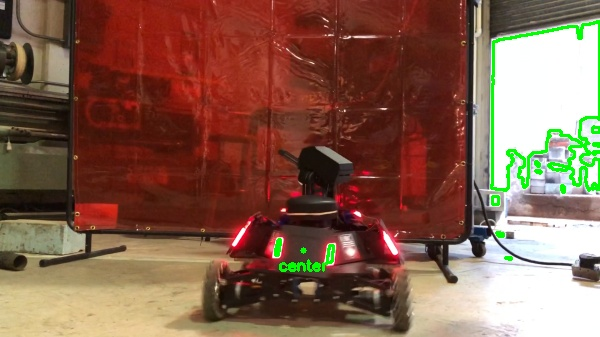
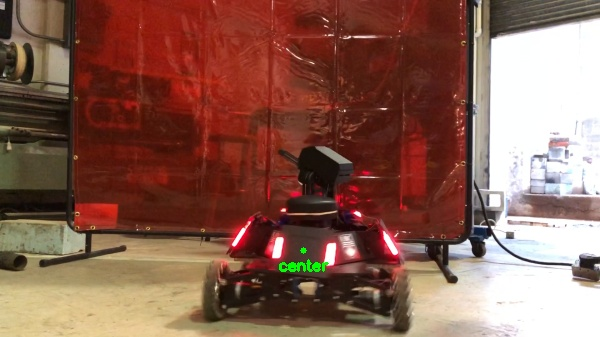
Only draw final center coordinate

diff --git a/detectArmour_image.py b/detectArmour_image.py
@@ -1,5 +1,5 @@
 # usage
-# python detectArmour_image.py -i dataset/RoboMasterLabelledImagesSet1/image-550.jpg --save ./output/
+# python detectArmour_image.py -i ../datasets/RoboMasterLabelledImagesSet1/image-550.jpg --save ./output/ --method blurr
 
 from shapeDetector import ShapeDetector
 import argparse
@@ -78,14 +78,14 @@ for c in cnts:
 	if shape == "rectangle" or shape == "pentagon":
 		c = c.astype("float")
 		c = c.astype("int")
-		cv2.drawContours(image, [c], -1, (0, 255, 0), 2)
+		#cv2.drawContours(image, [c], -1, (0, 255, 0), 2)
 		coord = [cX, cY]
 		quadrilaterals.append(coord)
 
 		# show the output image
-		cv2.imshow("Image", image)
+		#cv2.imshow("Image", image)
 		print(shape)
-		cv2.waitKey(0)
+		#cv2.waitKey(0)
 
 print("quadrilaterals: " + str(len(quadrilaterals)))
 

diff --git a/detect_colourFilter_image.py b/detect_colourFilter_image.py
@@ -1,5 +1,3 @@
-# usage
-# python detectArmour_image.py -i dataset/RoboMasterLabelledImagesSet1/image-550.jpg --save ./output/
 
 from shapeDetector import ShapeDetector
 import numpy as np
